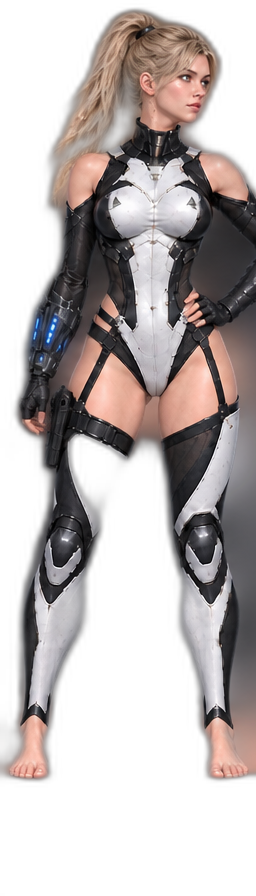
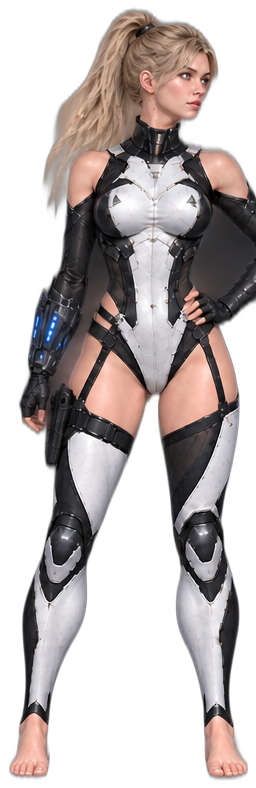
Пересобраны idle-спрайты Вероники: убран остаточный фон, вернулись срезанные детали
Раньше я вырезал фон сразу для всей простыни целиком, а потом резал на
6 кадров — так же, как изначально делал для бега (там это дало плохой
результат из-за смазанных краёв между кадрами). Для idle получилась
похожая проблема: местами оставался фон, местами модель по ошибке
срезала часть детали как 'фон'.

Переделал по методу, который уже сработал для бега: сначала режу
простыню на 6 кадров, потом вырезаю фон у каждого кадра отдельно — на
одном изолированном кадре модель распознаёт силуэт куда точнее, ничего
лишнего не съедает. Проверил — пистолет, кобура, все детали костюма на
месте, фон чистый. Файлы те же (idle_00..05.png), пути в
characters.json трогать не пришлось.

diff --git a/game/core/Game.js b/game/core/Game.js
@@ -5,39 +5,39 @@
 // prototype doesn't need a separate renderer module yet — everything else
 // (pathfinding, resources, temperature, rooms...) lives in its own system file.
 
-import { PathfindingSystem } from '../systems/PathfindingSystem.js?v=12';
-import { MovementSystem } from '../systems/MovementSystem.js?v=12';
-import { CharacterSystem } from '../systems/CharacterSystem.js?v=12';
-import { RoomSystem } from '../systems/RoomSystem.js?v=12';
-import { ConstructionSystem } from '../systems/ConstructionSystem.js?v=12';
-import { WorldSystem } from '../systems/WorldSystem.js?v=12';
-import { InventorySystem } from '../systems/InventorySystem.js?v=12';
-import { CombatSystem } from '../systems/CombatSystem.js?v=12';
-import { SquadCombatSystem } from '../systems/SquadCombatSystem.js?v=12';
+import { PathfindingSystem } from '../systems/PathfindingSystem.js?v=13';
+import { MovementSystem } from '../systems/MovementSystem.js?v=13';
+import { CharacterSystem } from '../systems/CharacterSystem.js?v=13';
+import { RoomSystem } from '../systems/RoomSystem.js?v=13';
+import { ConstructionSystem } from '../systems/ConstructionSystem.js?v=13';
+import { WorldSystem } from '../systems/WorldSystem.js?v=13';
+import { InventorySystem } from '../systems/InventorySystem.js?v=13';
+import { CombatSystem } from '../systems/CombatSystem.js?v=13';
+import { SquadCombatSystem } from '../systems/SquadCombatSystem.js?v=13';
 
-import { GameTime } from './GameTime.js?v=12';
-import { ResourceSystem } from './ResourceSystem.js?v=12';
-import { TemperatureSystem } from './TemperatureSystem.js?v=12';
-import { SaveSystem } from './SaveSystem.js?v=12';
+import { GameTime } from './GameTime.js?v=13';
+import { ResourceSystem } from './ResourceSystem.js?v=13';
+import { TemperatureSystem } from './TemperatureSystem.js?v=13';
+import { SaveSystem } from './SaveSystem.js?v=13';
 
-import { Character } from '../entities/Character.js?v=12';
-import { Room } from '../entities/Room.js?v=12';
-import { Enemy } from '../entities/Enemy.js?v=12';
-import { Item } from '../entities/Item.js?v=12';
-import { EnemySystem } from '../systems/EnemySystem.js?v=12';
+import { Character } from '../entities/Character.js?v=13';
+import { Room } from '../entities/Room.js?v=13';
+import { Enemy } from '../entities/Enemy.js?v=13';
+import { Item } from '../entities/Item.js?v=13';
+import { EnemySystem } from '../systems/EnemySystem.js?v=13';
 
-import { ShelterUI } from '../ui/ShelterUI.js?v=12';
-import { LeftBarUI } from '../ui/LeftBarUI.js?v=12';
-import { CharacterMenuUI } from '../ui/CharacterMenuUI.js?v=12';
-import { ConstructionUI } from '../ui/ConstructionUI.js?v=12';
-import { CharacterRosterUI } from '../ui/CharacterRosterUI.js?v=12';
-import { PartyUI } from '../ui/PartyUI.js?v=12';
-import { InventoryUI } from '../ui/InventoryUI.js?v=12';
-import { EnemyMenuUI } from '../ui/EnemyMenuUI.js?v=12';
-import { EnemyInfoUI } from '../ui/EnemyInfoUI.js?v=12';
-import { DoorMenuUI } from '../ui/DoorMenuUI.js?v=12';
-import { showStartMenu } from '../ui/StartMenu.js?v=12';
-import { installOrientationLockRetry } from './OrientationLock.js?v=12';
+import { ShelterUI } from '../ui/ShelterUI.js?v=13';
+import { LeftBarUI } from '../ui/LeftBarUI.js?v=13';
+import { CharacterMenuUI } from '../ui/CharacterMenuUI.js?v=13';
+import { ConstructionUI } from '../ui/ConstructionUI.js?v=13';
+import { CharacterRosterUI } from '../ui/CharacterRosterUI.js?v=13';
+import { PartyUI } from '../ui/PartyUI.js?v=13';
+import { InventoryUI } from '../ui/InventoryUI.js?v=13';
+import { EnemyMenuUI } from '../ui/EnemyMenuUI.js?v=13';
+import { EnemyInfoUI } from '../ui/EnemyInfoUI.js?v=13';
+import { DoorMenuUI } from '../ui/DoorMenuUI.js?v=13';
+import { showStartMenu } from '../ui/StartMenu.js?v=13';
+import { installOrientationLockRetry } from './OrientationLock.js?v=13';
 
 const DEBUG_GRID = false; // flip to true to see the passability grid over the art
 const CHARACTER_HEIGHT_TILES = 6.2; // sprite height in grid cells — was 3.6, bumped up per feedback. Рост героев.

diff --git a/game/ui/StartMenu.js b/game/ui/StartMenu.js
@@ -4,8 +4,8 @@
 // into Game.init(), which already loads the save itself — this module only
 // decides *whether* to clear the save first, it doesn't touch game logic.
 
-import { SaveSystem } from '../core/SaveSystem.js?v=12';
-import { requestLandscapeLock } from '../core/OrientationLock.js?v=12';
+import { SaveSystem } from '../core/SaveSystem.js?v=13';
+import { requestLandscapeLock } from '../core/OrientationLock.js?v=13';
 
 export function showStartMenu(onStart) {
   const app = document.getElementById('app');

diff --git a/index.html b/index.html
@@ -6,10 +6,10 @@
   <meta name="screen-orientation" content="landscape" />
   <meta name="x5-orientation" content="landscape" />
   <title>Bunker Prototype</title>
-  <link rel="stylesheet" href="game/ui/style.css?v=12" />
+  <link rel="stylesheet" href="game/ui/style.css?v=13" />
 </head>
 <body>
   <div id="app"></div>
-  <script type="module" src="game/core/Game.js?v=12"></script>
+  <script type="module" src="game/core/Game.js?v=13"></script>
 </body>
 </html>
